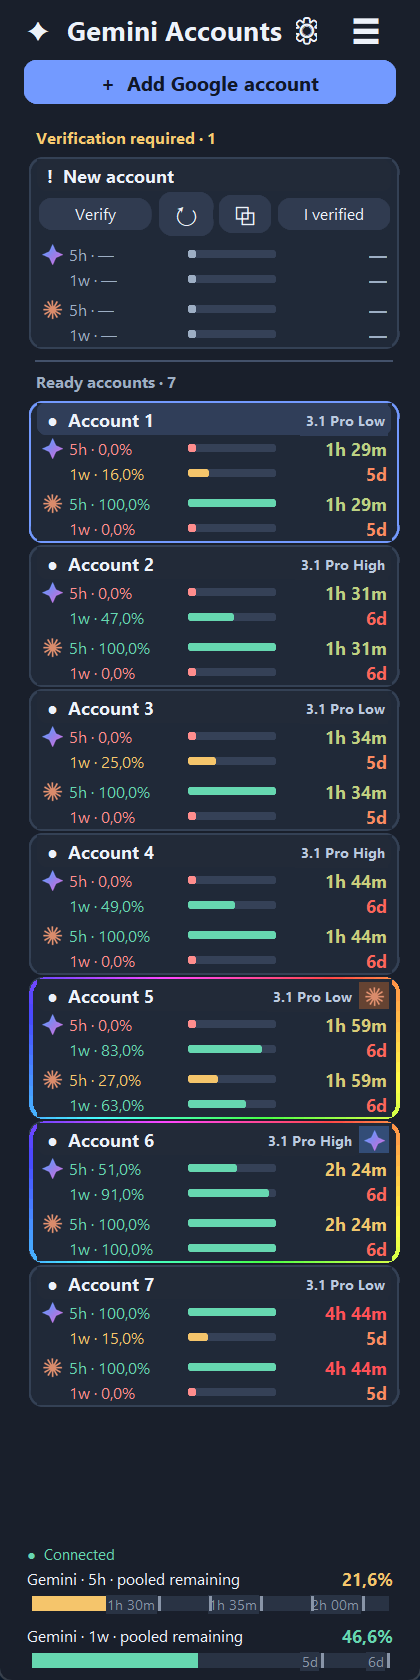
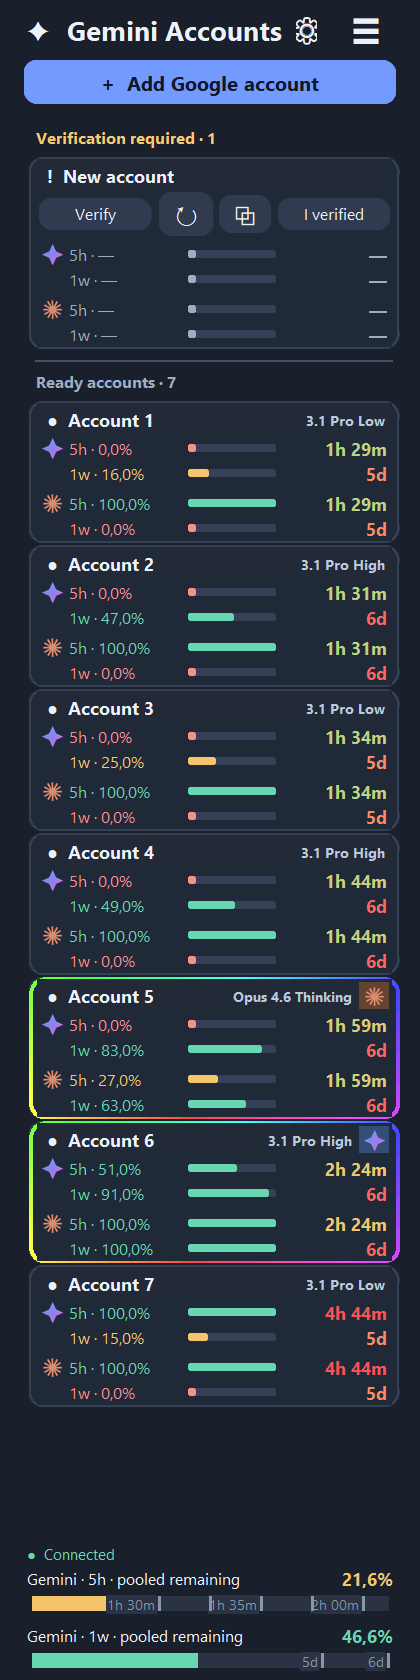
Release 1.3.0 with details-only card selection and accurate activity indicators

diff --git a/app.py b/app.py
@@ -218,6 +218,8 @@ class App(ctk.CTk):
             self.minsize(SIDEBAR_WIDTH, 500)
             self.geometry(f'{SIDEBAR_WIDTH}x{max(500, int(self._current_height))}')
         self.details_collapsed = not self.details_collapsed
+        for account in self.items:
+            self.update_account_row(account)
         self.controller.preferences['details-collapsed'] = self.details_collapsed
         self.controller.save()
         def restore_positions():
@@ -537,11 +539,12 @@ class App(ctk.CTk):
                 self.account_group_widgets.append((index, header, options))
             name = account['name']
             card = ctk.CTkFrame(self.account_list, fg_color='#202938', corner_radius=10,
-                border_width=1, border_color=ACCENT if name == self.selected else '#344155')
+                border_width=1, border_color=ACCENT if not self.details_collapsed and name == self.selected else '#344155')
             card.pack(fill='x', pady=(0, 1), padx=1)
             status = self.sidebar_account_status(account)
             button = ctk.CTkButton(card, text=self.account_heading(account),
-                height=19, anchor='w', corner_radius=6, fg_color='#303e59' if account['name'] == self.selected else CARD,
+                height=19, anchor='w', corner_radius=6, fg_color='#303e59' if not self.details_collapsed and account['name'] == self.selected else CARD,
+                hover=not self.details_collapsed,
                 hover_color='#334158', text_color=TEXT, font=('Segoe UI', 12, 'bold'), command=lambda a=account: self.select(a))
             button.pack(fill='x', pady=(1, 0), padx=5)
             countdown = {}
@@ -861,9 +864,10 @@ class App(ctk.CTk):
             return
         status = self.sidebar_account_status(account)
         widgets['card'].configure(border_width=1,
-            border_color=ACCENT if account['name'] == self.selected else '#344155')
+            border_color=ACCENT if not self.details_collapsed and account['name'] == self.selected else '#344155')
         widgets['button'].configure(text=self.account_heading(account),
-            fg_color='#303e59' if account['name'] == self.selected else CARD)
+            fg_color='#303e59' if not self.details_collapsed and account['name'] == self.selected else CARD,
+            hover=not self.details_collapsed)
         if account.get('access_issue') == 'verification':
             if not widgets['verification_frame'].winfo_manager():
                 widgets['verification_frame'].pack(fill='x', padx=5, pady=(0, 3), after=widgets['button'])
@@ -1020,7 +1024,7 @@ class App(ctk.CTk):
         canvas = button._canvas
         scale = button._get_widget_scaling()
         heading = button.cget('text')
-        layout = (families, model, heading, button.winfo_width(), button.winfo_height(), scale)
+        layout = (families, model, heading, button.winfo_width(), button.winfo_height(), scale, button.cget('fg_color'))
         if widgets.get('badge_layout') != layout:
             canvas.delete('active_badge')
             images = widgets.setdefault('badge_images', {})
@@ -1116,6 +1120,8 @@ class App(ctk.CTk):
         return self.controller.preferences.get('labels', {}).get(account['name']) or account.get('email') or 'Google account'
 
     def select(self, account):
+        if self.details_collapsed:
+            return
         self.selected = account['name']
         self.loaded(self.items)
 

diff --git a/tests/test_quota_ui.py b/tests/test_quota_ui.py
@@ -255,11 +255,19 @@ class QuotaUITests(unittest.TestCase):
                     self.assertFalse(app.body.winfo_ismapped())
                     self.assertTrue(app.account_list._parent_frame.winfo_ismapped())
                     self.assertTrue(app.geometry().startswith('280x'))
+                    selected = app.selected
+                    app.select(items[1])
+                    self.assertEqual(app.selected, selected)
+                    for widgets in app.account_widgets.values():
+                        self.assertEqual(widgets['card'].cget('border_color'), '#344155')
+                        self.assertEqual(widgets['button'].cget('fg_color'), '#222a38')
+                        self.assertFalse(widgets['button'].cget('hover'))
                     app.toggle_details()
                     app.update()
                     self.assertFalse(app.details_collapsed)
                     self.assertTrue(app.body.winfo_ismapped())
                     self.assertIs(app.rename_entry, entry)
+                    self.assertEqual(app.account_widgets[selected]['card'].cget('border_color'), '#739aff')
                 self.assertEqual(app.focus_get(), focus)
                 self.assertEqual(app.detail.winfo_children(), detail_children)
                 self.assertEqual(app.account_list.winfo_children(), sidebar_children)

diff --git a/installer.py b/installer.py
@@ -70,7 +70,7 @@ def install(payload, root, shortcuts=True):
             'requests': {'streaming': {'keepalive-seconds': 5}},
         }
         atomic_write(config_path, yaml.safe_dump(config, sort_keys=False).encode())
-    atomic_write(manager / 'installation.json', json.dumps({'version': '1.2.0'}).encode())
+    atomic_write(manager / 'installation.json', json.dumps({'version': '1.3.0'}).encode())
     if shortcuts:
         # PowerShell receives paths as environment data, never executable interpolation.
         env = os.environ.copy()

diff --git a/runtime.py b/runtime.py
@@ -18,7 +18,7 @@ import bcrypt
 import yaml
 from backend import AccountError, atomic_write, dpapi
 
-VERSION = '1.2.0'
+VERSION = '1.3.0'
 UPSTREAM_VERSION = '8.0.16'
 ARCHIVES = {
[1 lines of base64/hex data omitted]

diff --git a/RELEASE_NOTES.md b/RELEASE_NOTES.md
@@ -1,4 +1,8 @@
-# Gemini Accounts 1.2.0 — Model selection and compact weekly countdowns
+# Gemini Accounts 1.3.0 — Accurate activity indicators and compact account selection
+
+- Account selection for details works only while the right panel is open. Compact mode has no selected-card background, selection border or hover highlight; verification controls remain usable. Expanding restores the selected details without rebuilding the interface.
+- Gemini / Claude badges and animated borders clear when their gateway requests finish or wait for quota. Status updates every second. Model names disappear from card headers after one minute without a recent request.
+- Automatic ranking prefers available accounts with the nearest **5h** reset for the ranked provider. Weekly quota determines eligibility; its reset no longer overrides the five-hour order.
 
 Use **⚙ next to Gemini Accounts** to choose models independently in two lists: **Claude (Antigravity)** for available Haiku / Sonnet / Opus models, and **Gemini** for Pro Low / High, Flash and Flash Lite. New gateway requests use the selection. Updating connected client menus and defaults is optional, asks consent and requires restarting clients. Availability follows your account catalog. Explicit cheap Gemini Flash requests are preserved.
 
@@ -24,4 +28,4 @@ See the English [quick start](https://github.com/nikitaeight24family/GeminiAccou
 
 Demo accounts and example quota values; no personal account addresses.
 
-<img src="https://raw.githubusercontent.com/nikitaeight24family/GeminiAccounts/v1.2.0/docs/compact-panel.png" alt="Compact Gemini Accounts panel" width="320">
+<img src="https://raw.githubusercontent.com/nikitaeight24family/GeminiAccounts/v1.3.0/docs/compact-panel.png" alt="Compact Gemini Accounts panel" width="320">

diff --git a/README.md b/README.md
@@ -46,6 +46,7 @@ Before any changes, the app lists affected files and asks for consent. Projects,
 - **⚙ next to Gemini Accounts → Choose models:** two independent lists: **Claude (Antigravity)** with available Haiku / Sonnet / Opus models, and **Gemini** with Pro Low / High, Flash and Lite. Applies to new gateway requests. Updating connected client menus and defaults is optional and asks permission; restart clients afterward. Availability follows your account catalog. Explicit Gemini Flash requests remain unchanged so quota pings stay cheap.
 - Four account quota bars: Gemini / Claude, **5h / 1w**, with reset countdowns and time-based colors.
 - Compact cards, sorted by Gemini's five-hour reset, with verification accounts pinned separately.
+- Selecting an account for details works only while the right panel is open. Compact mode removes selection and hover highlights; verification buttons remain usable.
 - Pooled Gemini 5h / 1w bars with vertical markers for projected quota after exhausted windows reset.
 - Last requested model appears in card headers for one minute. Independent Gemini and Claude badges and animated borders appear only while that provider has a running gateway request; idle and quota-wait states clear them.
 - Prioritizes available accounts by the nearest **5h** reset for the ranked model family. Weekly quota determines whether the account can be used; its countdown does not change the five-hour order. Native failover switches exhausted accounts. Gemini and Claude can use different accounts simultaneously.
